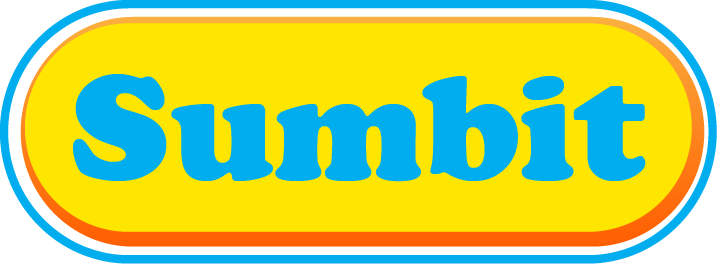
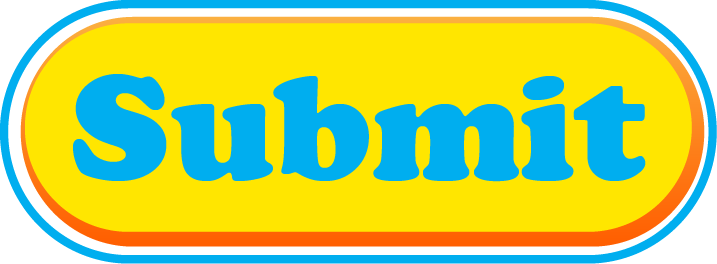
added changes from jive (next btn, how btn,font issue, quit modal)

Changed region(s): [[0.3682, 0.2727, 0.7364, 0.697], [0.7057, 0.4545, 0.7364, 0.5758], [0.3682, 0.4242, 0.3989, 0.4848]]

diff --git a/sendAsmile/action_items/ai3.html b/sendAsmile/action_items/ai3.html
@@ -22,13 +22,12 @@
             <div id="slide_2">
 
                 <img src="content/images/Headers/header_change_your_day.png" style="width: 606px; margin-top: 0px; margin-left: 2px; position: absolute; z-index: 2;" />
-                <img src="content/images/Buttons/btn_how.png" style="width: 289px; margin-top: 103px; margin-left: 158px; position: absolute; z-index: 1;" />
-
-                <div class="nextBtn2">
-                    <div class="flip-on" style="z-index:10;"><img src="content/images/Buttons/btn_next_on.png" style="width: 129px;position:absolute;z-index: 2;margin-top: 334px;margin-left: 459px;" /></div>
-                    <div class="flip-off" style="z-index:9;"><img src="content/images/Buttons/btn_next.png" style="width: 129px;margin-top: 333px;position:absolute;z-index: 2;margin-left: 459px;" /></div>
+               
+                 <div class="nextBtn2">
+                    <div class="flip-on" style="z-index:10;"><img src="content/images/Buttons/btn_how_on.png" style="width: 289px; margin-top: 103px; margin-left: 158px; position: absolute; z-index: 2;"/></div>
+                    
+                    <div class="flip-off" style="z-index:9;"><img src="content/images/Buttons/btn_how.png" style="width: 289px; margin-top: 103px; margin-left: 158px; position: absolute; z-index: 2;" /></div>
                 </div>
-
 
             </div>
 

diff --git a/sendAsmile/action_items/ai1.html b/sendAsmile/action_items/ai1.html
@@ -26,10 +26,11 @@
                     How does that make you feel?<br />Click the bad-day bubbles!
                 </h2>
 
-                <div class="nextBtn1">
-                    <div class="flip-on" style="z-index:10;"><img src="content/images/Buttons/btn_next_on.png" style="width: 153px;position:absolute;z-index: 2;margin-top: 231px;margin-left: 449px;" /></div>
-                    <div class="flip-off" style="z-index:9;"><img src="content/images/Buttons/btn_next.png" style="width: 153px;margin-top: 230px;position:absolute;z-index: 2;margin-left: 449px;" /></div>
+               <div class="nextBtn1">
+                    <div class="flip-on" style="z-index:10;"><img src="content/images/Buttons/btn_next_on.png" style="width: 129px;position:absolute;z-index: 2;margin-top: 334px;margin-left: 459px;" /></div>
+                    <div class="flip-off" style="z-index:9;"><img src="content/images/Buttons/btn_next.png" style="width: 129px;margin-top: 333px;position:absolute;z-index: 2;margin-left: 459px;" /></div>
                 </div>
+
 
 
             </div>

diff --git a/sendAsmile/index.html b/sendAsmile/index.html
@@ -41,7 +41,7 @@
 
                 </div><!--end custom-font game title-->
 
-                  <div class="close-Btn" style="margin-top: 96px;margin-left: 3px;">
+                  <div class="close-Btn" style="margin-top: 9px;margin-left: 3px;">
                 <div class="flip-on" style="z-index:10;"><img src="content/images/Buttons/btn_exit_on.png" style="width:30px;" /></div>
                 <div class="flip-off" style="z-index:9;"><img src="content/images/Buttons/btn_exit.png" style="width: 30px;margin-top: -30px;" /></div>
             </div>

diff --git a/sendAsmile/javascript/initialize.js b/sendAsmile/javascript/initialize.js
@@ -2,5 +2,5 @@ $.ajaxPrefilter(function( options, originalOptions, jqXHR ) {
     options.async = true;
 });		
 $( document ).ready(function() {
-    $("#putcontenthere").load("/action_items/ai1.html");
+    $("#putcontenthere").load("/action_items/ai4.html");
 });
